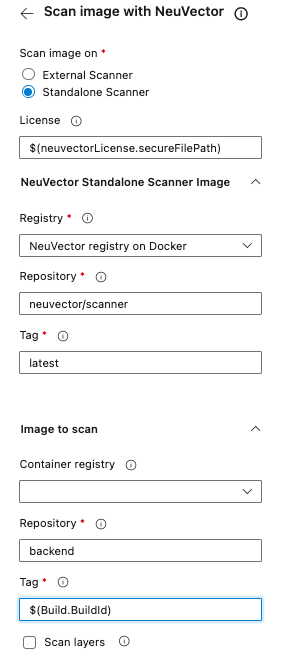
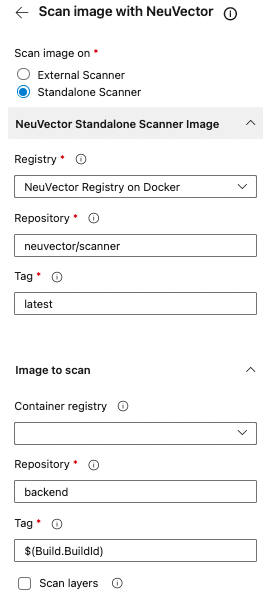
remove the license from the standalone scanner configuration page

diff --git a/tasks/scan/scan.ts b/tasks/scan/scan.ts
@@ -43,12 +43,6 @@ class NeuVectorApiClient {
 
     private readonly scanRepositoryEndpoint = "/v1/scan/repository"
 
-    // private readonly licenseEndpoint = "/v1/system/license"
-
-    // private readonly updateLicenseEndpoint = "/v1/system/license/update"
-
-    // private readonly authTokenHeader = "X-Auth-Token"
-
     private token = ""
 
     constructor(private readonly url: string, private readonly strictSsl: boolean) {
@@ -142,31 +136,6 @@ class NeuVectorApiClient {
             strictSSL: this.strictSsl
         });
     }
-
-    // public async getLicense() {
-    //     return await request.get({
-    //         baseUrl: this.url,
-    //         uri: this.licenseEndpoint,
-    //         json: true,
-    //         headers: this.getHeaders(),
-    //         strictSSL: this.strictSsl
-    //     });
-    // }
-
-    // public async updateLicense(licenseKey: string) {
-    //     const requestBody = {
-    //         "license_key": licenseKey
-    //     };
-
-    //     return await request.post({
-    //         baseUrl: this.url,
-    //         uri: this.updateLicenseEndpoint,
-    //         json: true,
-    //         body: requestBody,
-    //         headers: this.getHeaders(),
-    //         strictSSL: this.strictSsl
-    //     });
-    // }
 
     public async unauthenticate() {
         return await request.delete({
@@ -277,7 +246,6 @@ async function run() {
 
         if(standaloneScanner){
             // Standalone Scan
-            let license = "";
 
             let nvRegistry = false
             let nvRegistryUrl = "";
@@ -325,15 +293,6 @@ async function run() {
             nvRepository = tl.getInput('nvRepository', true)!;
             nvTag = tl.getInput('nvTag', true)!;
 
-            // License path
-            const licensePath: string = tl.getInput('license', true)!;
-
-            if (!fs.existsSync(licensePath)) {
-                tl.setResult(tl.TaskResult.Failed, `License file not found at "${licensePath}".`);
-            }
-
-            license = fs.readFileSync(licensePath).toString().trim();
-
             try {
                 let failOnStderr:boolean = false;
                 let mountPath = tl.getVariable('Pipeline.Workspace');
@@ -350,7 +309,7 @@ async function run() {
                 let script: string = `
                 echo ${nvRegistryPassword} | docker login -u ${nvRegistryUsername} --password-stdin ${nvRegistryUrl} \n
                 docker pull ${nvRegistryUrlParam}${nvRepository}:${nvTag} \n
-                docker run --name ${scannerName} --rm ${scannerRegistryUrlParam} ${scannerRegistryUserParam} ${scannerRegistryPasswordParam} -e SCANNER_REPOSITORY=${repository} -e SCANNER_TAG=${tag} -e SCANNER_LICENSE=${license} -v /var/run/docker.sock:/var/run/docker.sock -v ${mountPath}:/var/neuvector ${scanLayerParam} ${nvRegistryUrlParam}${nvRepository}:${nvTag} \n
+                docker run --name ${scannerName} --rm ${scannerRegistryUrlParam} ${scannerRegistryUserParam} ${scannerRegistryPasswordParam} -e SCANNER_REPOSITORY=${repository} -e SCANNER_TAG=${tag} -e SCANNER_ON_DEMAND=true -v /var/run/docker.sock:/var/run/docker.sock -v ${mountPath}:/var/neuvector ${scanLayerParam} ${nvRegistryUrlParam}${nvRepository}:${nvTag} \n
                 docker logout \n
                 docker images
                 `;

diff --git a/tasks/scan/tests/local-scan.ts b/tasks/scan/tests/local-scan.ts
@@ -12,7 +12,6 @@ process.env['BUILD_ARTIFACTSTAGINGDIRECTORY'] = `${tempDir}`;
 
 tmr.setInput('scanType', 'standalone');
 
-tmr.setInput('license', `${localScanTestDir}/neuvector-license.txt`);
 tmr.setInput('nvContainerRegistry', 'NeuVector registry on Docker');
 tmr.setInput('nvRepository', 'neuvector/scanner');
 tmr.setInput('nvTag', 'latest');

diff --git a/overview.md b/overview.md
@@ -37,7 +37,7 @@ The extension provides the following features:
 ![NeuVector controller service connection](screenshots/service-connection.png)
 
 ### Scan on standalone scanner
-* A standalone scanner needs to pull the scanner image from a registry. It also needs a license to run the scan.
+* A standalone scanner needs to pull the scanner image from a registry.
 
 ![NeuVector vulnerability scan task](screenshots/task-standalone-scan.png)
 
@@ -123,7 +123,6 @@ Example:
   displayName: Scan image with NeuVector
   inputs:
     scanType: 'standalone'
-    license: '$(neuvectorLicense.secureFilePath)'
     nvContainerRegistry: 'NeuVector Registry on Docker'
     nvRepository: 'neuvector/scanner'
     nvTag: 'latest'
@@ -145,12 +144,11 @@ The following example shows a YAML-based pipeline, which
 * Fails the build if the image contains at least 1 high severity vulnerability or at least 3 medium severity vulnerabilities
 * Pushes the Docker image to a private Azure Container registry only if the aforementioned quality gates are met
 
-The pipeline pulls the standalone image from a registry and run it in the pipeline as a container to perform scanning. The task `NeuVectorScan` is running in the pipeline to perform scanning. As a prerequisite, a valid NeuVector license needs to be applied. In the example, the license is taken from the [secure file](https://docs.microsoft.com/en-us/azure/devops/pipelines/library/secure-files?view=azure-devops) `neuvector-license.txt` and referenced by the `NeuVectorScan` step.
+The pipeline pulls the standalone image from a registry and run it in the pipeline as a container to perform scanning. The task `NeuVectorScan` is running in the pipeline to perform scanning.
 
 The example assumes:
 
 * A [service connection](https://docs.microsoft.com/en-us/azure/devops/pipelines/library/service-endpoints?view=azure-devops&tabs=yaml) `Docker Hub` is configured with credentials and permissions to fetch images from the NeuVector registry.
-* A valid NeuVector license exists in the [secure file](https://docs.microsoft.com/en-us/azure/devops/pipelines/library/secure-files?view=azure-devops) `neuvector-license.txt` and is accessible by the pipeline.
 * A service connection to an Azure Container Registry `gallery.azurecr.io` is configured.
 
 Example:
@@ -169,16 +167,10 @@ steps:
       repository: 'backend'
       tags: '$(Build.BuildId)'
       addPipelineData: false
-- task: DownloadSecureFile@1
-  name: neuvectorLicense
-  displayName: Get NeuVector license
-  inputs:
-    secureFile: 'neuvector-license.txt'
 - task: NeuVectorScan@2
   displayName: Scan image with NeuVector
   inputs:
     scanType: 'standalone'
-    license: '$(neuvectorLicense.secureFilePath)'
     nvContainerRegistry: 'NeuVector registry on Docker'
     nvRepository: 'neuvector/scanner'
     nvTag: 'latest'
